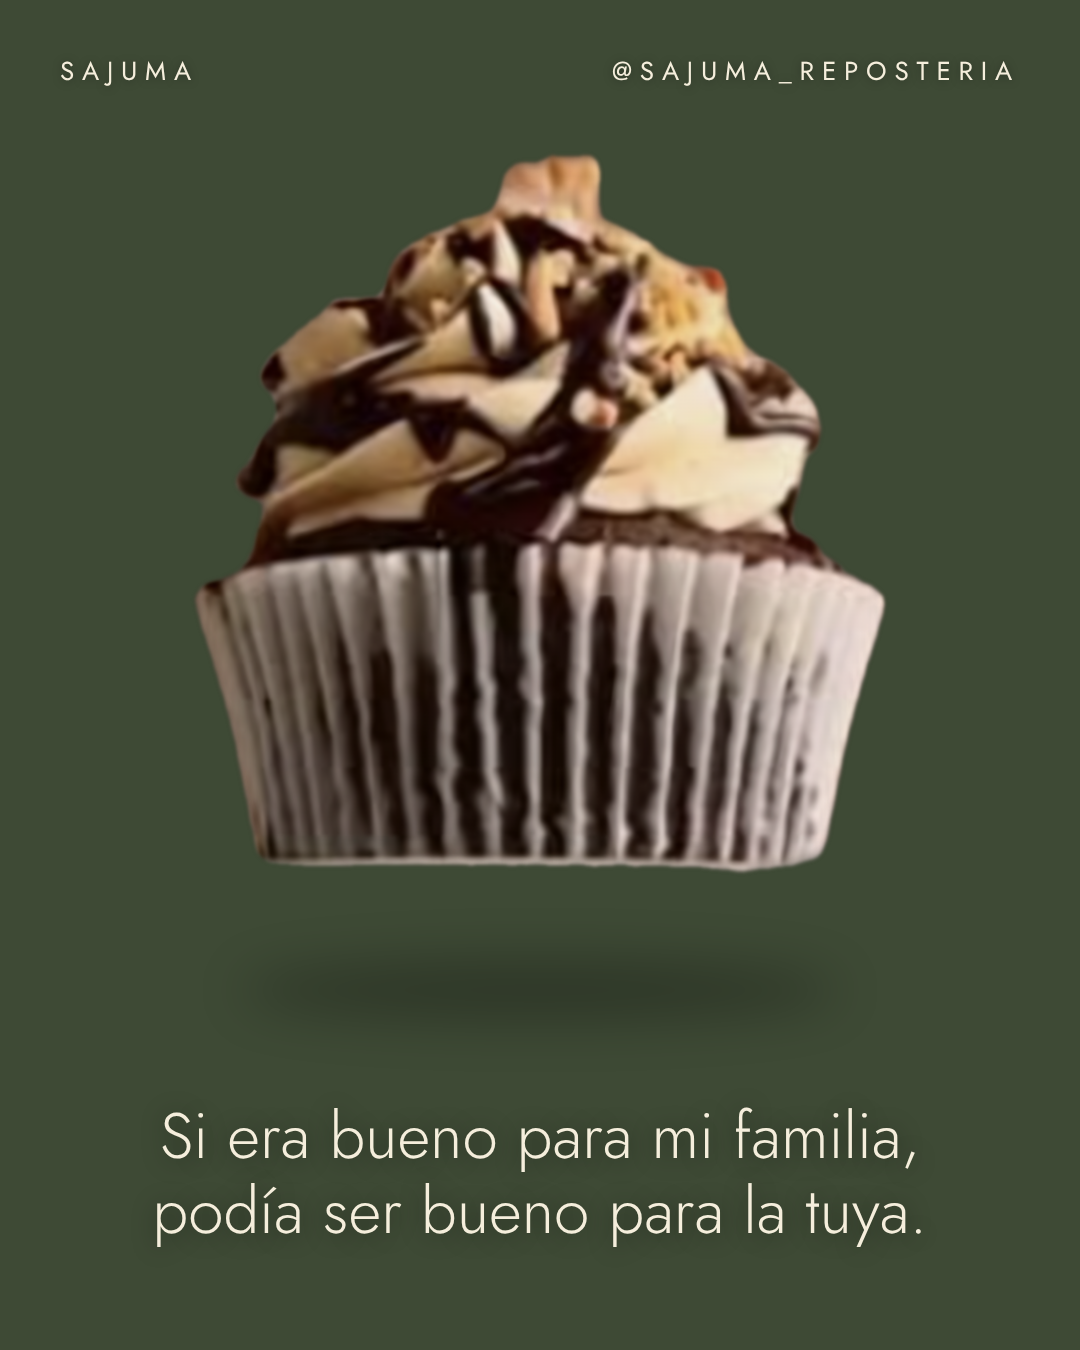
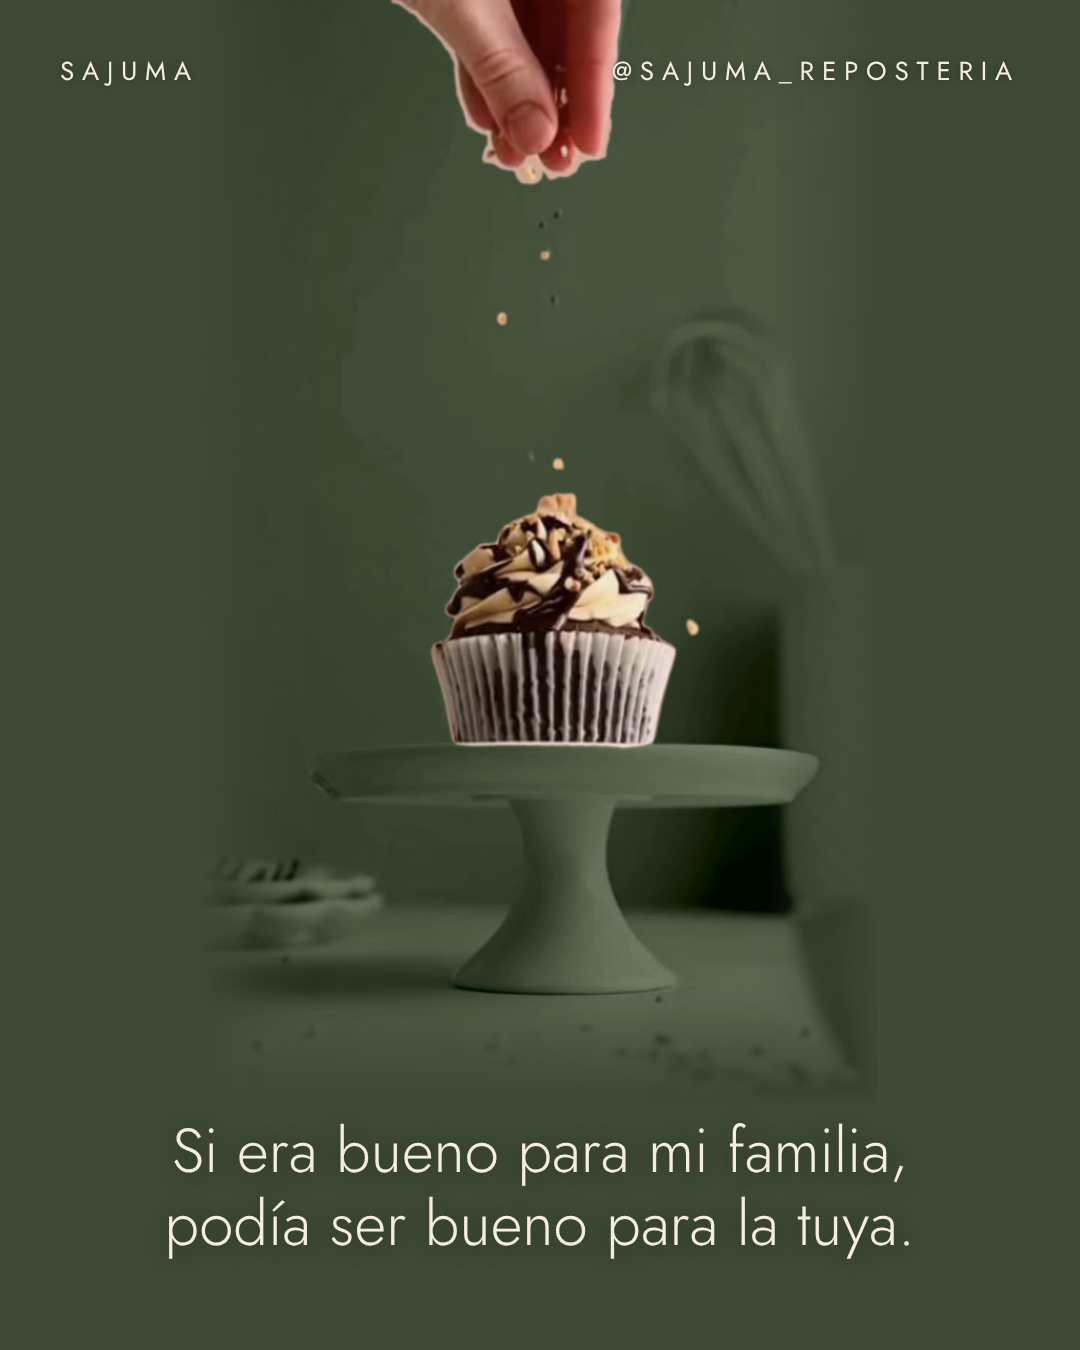
SAJUMA carrusel 1: slide 6 con la foto original del cupcake y fondo verde
Claude-Session: https://claude.ai/code/session_018d4LXHkXweDJXxfN5x99dL

Changed region(s): [[0.1833, 0.0, 0.825, 0.7778], [0.1528, 0.8089, 0.8556, 0.9333]]

diff --git a/carruseles/sajuma-1-todo-empezo-en-mi-cocina/carrusel.html b/carruseles/sajuma-1-todo-empezo-en-mi-cocina/carrusel.html
@@ -26,10 +26,8 @@ body{background:#222;display:flex;flex-direction:column;align-items:center;gap:4
 <div class="intro" style="top:190px;font-size:50px">Y descubrí algo:</div>
 <div class="big" style="top:262px;font-size:112px;line-height:1">lo rico también<br>puede cuidarte</div>
 <div class="shadow" style="left:150px;top:1180px;width:780px;opacity:.6"></div>
-<img class="hero" src="img/cheesecake-pistacho.png" style="left:90px;top:700px;width:900px"></section><section class="slide" style="background:#3E4A35;color:#F5EEDC"><div class="brand" style="color:#F5EEDC"><span>SAJUMA</span><span>@SAJUMA_REPOSTERIA</span></div>
-<div class="shadow" style="left:240px;top:960px;width:600px;opacity:.6"></div>
-<img class="hero" src="img/cupcake-mano.png" style="left:190px;top:150px;width:700px">
-<div class="over" style="bottom:100px"><div class="t1" style="font-size:64px">Si era bueno para mi familia, podía ser bueno para la tuya.</div></div></section><section class="slide" style="background:#F5EEDC;color:#3E4A35"><div class="brand" style="color:#3E4A35"><span>SAJUMA</span><span>@SAJUMA_REPOSTERIA</span></div>
+<img class="hero" src="img/cheesecake-pistacho.png" style="left:90px;top:700px;width:900px"></section><section class="slide" style="background:#3E4A35;color:#F5EEDC"><img class="hero" src="img/cupcake-mano-verde-fade.png" style="left:201px;top:0;width:677px;z-index:1"><div class="brand" style="color:#F5EEDC"><span>SAJUMA</span><span>@SAJUMA_REPOSTERIA</span></div>
+<div class="over" style="bottom:90px"><div class="t1" style="font-size:62px">Si era bueno para mi familia, podía ser bueno para la tuya.</div></div></section><section class="slide" style="background:#F5EEDC;color:#3E4A35"><div class="brand" style="color:#3E4A35"><span>SAJUMA</span><span>@SAJUMA_REPOSTERIA</span></div>
 <div class="intro" style="top:330px;font-size:60px;color:#2a2a24">Así nació</div>
 <img src="ref/sajuma-logo-transparente.png" style="position:absolute;left:150px;top:440px;width:780px">
 <div class="line"></div>

diff --git a/carruseles/sajuma-1-todo-empezo-en-mi-cocina/generar.py b/carruseles/sajuma-1-todo-empezo-en-mi-cocina/generar.py
@@ -25,10 +25,8 @@ S.append(f'''<section class="slide" style="background:#3E4A35;color:#F5EEDC">{br
 <div class="shadow" style="left:150px;top:1180px;width:780px;opacity:.6"></div>
 <img class="hero" src="img/cheesecake-pistacho.png" style="left:90px;top:700px;width:900px"></section>''')
 # 6
-S.append(f'''<section class="slide" style="background:#3E4A35;color:#F5EEDC">{brand()}
-<div class="shadow" style="left:240px;top:960px;width:600px;opacity:.6"></div>
-<img class="hero" src="img/cupcake-mano.png" style="left:190px;top:150px;width:700px">
-<div class="over" style="bottom:100px"><div class="t1" style="font-size:64px">Si era bueno para mi familia, podía ser bueno para la tuya.</div></div></section>''')
+S.append(f'''<section class="slide" style="background:#3E4A35;color:#F5EEDC"><img class="hero" src="img/cupcake-mano-verde-fade.png" style="left:201px;top:0;width:677px;z-index:1">{brand()}
+<div class="over" style="bottom:90px"><div class="t1" style="font-size:62px">Si era bueno para mi familia, podía ser bueno para la tuya.</div></div></section>''')
 # 7
 S.append(f'''<section class="slide" style="background:#F5EEDC;color:#3E4A35">{brand("#3E4A35")}
 <div class="intro" style="top:330px;font-size:60px;color:#2a2a24">Así nació</div>
